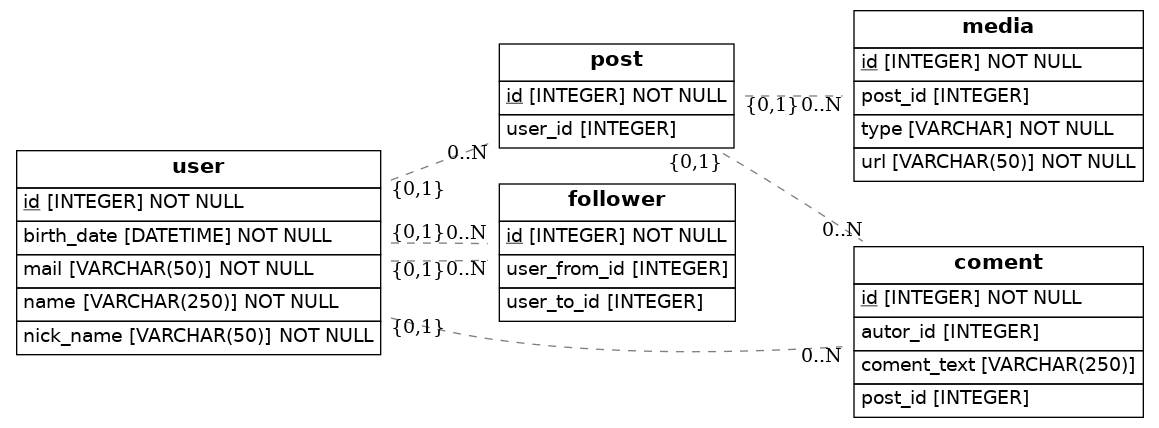
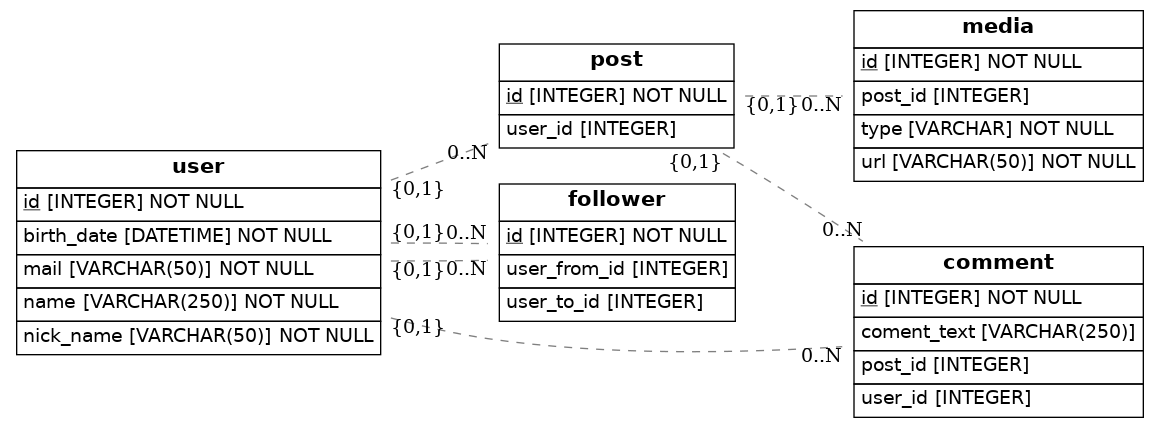
Fixing misspelling

diff --git a/src/models.py b/src/models.py
@@ -30,11 +30,11 @@ class Follower(Base):
     user_from_id = Column(Integer, ForeignKey('user.id'))
     user_to_id = Column(Integer, ForeignKey('user.id'))
 
-class Coment(Base):
-    __tablename__= 'coment'
+class Comment(Base):
+    __tablename__= 'comment'
     id = Column(Integer, primary_key=True)
     coment_text = Column(String(250), nullable=True, unique=False)
-    autor_id = Column(Integer, ForeignKey('user.id'))
+    user_id = Column(Integer, ForeignKey('user.id'))
     post_id = Column(Integer, ForeignKey('post.id'))
 
 class Media(Base):
